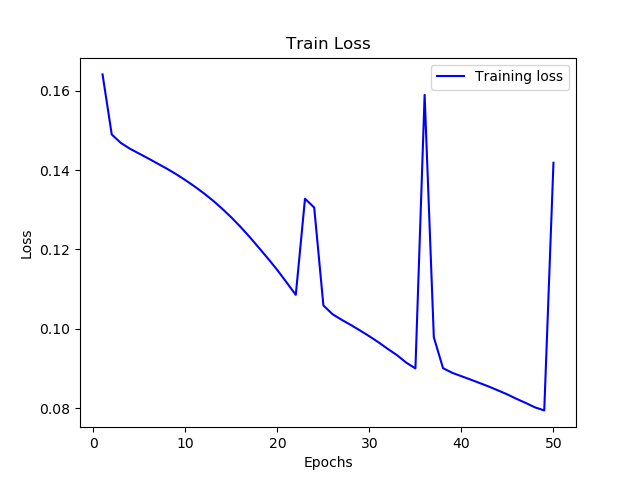
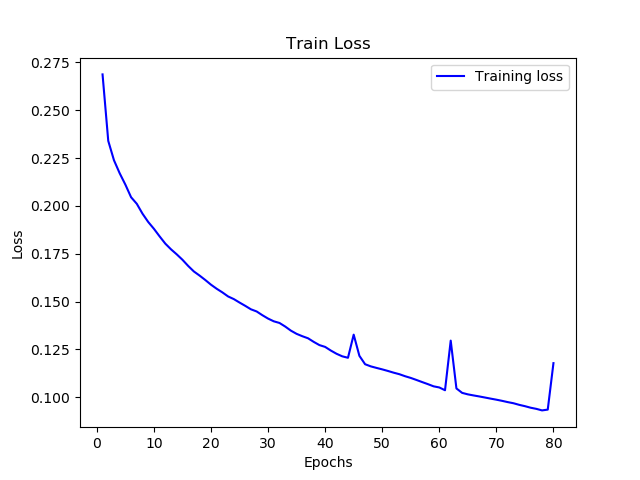
2/11

diff --git a/src/model.py b/src/model.py
@@ -5,7 +5,7 @@ import keras
 import tensorflow as tf
 import keras.backend as K
 from keras import layers
-from keras.models import Model
+from keras.models import Model,Sequential
 from keras.regularizers import l2
 from keras.layers.merge import concatenate
 from keras.layers import Activation, Conv1D, Conv2D, Input, Lambda,Dropout,LSTM
@@ -24,11 +24,11 @@ def trans(x):
 
 
 def conNet(input_shape,weight_decay,pool):
-    # ===============================================
-    # train: 0 ~ 30  0.001
-    #        35 ~ 85  0.0001
-    #        90 ~ 115  0.00006(2)
-    # ===============================================
+    '''
+    train: 0 ~ 30  0.001
+           35 ~ 85  0.0001
+           90 ~ 115  0.00006(2)
+    '''
     # ===============================================
     #            input layer
     # ===============================================
@@ -72,35 +72,19 @@ def conNet(input_shape,weight_decay,pool):
                 kernel_regularizer=l2(weight_decay),
                 padding='same',
                 name='conv3_1')(x2)
-    x3 = Conv2D(124, (3, 3),
+    x3 = Conv2D(128, (3, 3),
                 kernel_initializer='orthogonal',
                 use_bias=False, trainable=True,
                 kernel_regularizer=l2(weight_decay),
                 padding='same',
                 strides=(2, 1),
-                name='conv3_2')(x3)
+                name='conv3_3')(x3)
     x3 = BatchNormalization(axis=3, epsilon=1e-5, momentum=1, name='bn3', trainable=True)(x3, training=False)
     x3 = Activation('relu', name='relu3')(x3)
     if pool == "max":
         x3 = MaxPooling2D((2,2), strides=(2,2), padding="same", name="mpool3")(x3)
     elif pool == "avg":
         x3 = AveragePooling2D((2,2), strides=(2,2), padding="same", name="avgpool3")(x3)
-    # ===============================================
-    #            Convolution Block 4
-    # ===============================================
-    # x4 = Conv2D(128, (1,3),
-    #             kernel_initializer='orthogonal',
-    #             use_bias=False, trainable=True,
-    #             kernel_regularizer=l2(weight_decay),
-    #             padding='same',
-    #             strides=(1,2),
-    #             name='conv4')(x3)
-    # x4 = BatchNormalization(axis=3, epsilon=1e-5, momentum=1, name='bn4', trainable=True)(x4, training=False)
-    # x4 = Activation('relu', name='relu4')(x4)
-    # if pool == "max":
-    #     x4 = MaxPooling2D((1,2), strides=(1,2), padding="same", name="mpool4")(x4)
-    # elif pool == "avg":
-    #     x4 = AveragePooling2D((1, 2), strides=(1, 2), padding="same", name="avgpool4")(x4)
     # ===============================================
     #            GlobalAveragePooling
     # ===============================================
@@ -138,7 +122,7 @@ def conNet(input_shape,weight_decay,pool):
 '''
 
 
-def test():
+def test_for_cnn():
     input_shape = (13,300,3)
     model = conNet(input_shape,c.WEIGHT_DECAY,c.POOL)
 
@@ -152,4 +136,4 @@ def test():
 
 
 if __name__ == '__main__':
-    test()
+    test_for_cnn()

diff --git a/src/iden_train.py b/src/iden_train.py
@@ -22,11 +22,12 @@ def train_vggvox_model(model_load_path, model_save_path,continue_training, save_
         print("lat LR: ",K.get_value(model.optimizer.lr))
     else:
         model = conNet(c.INPUT_SHAPE,c.WEIGHT_DECAY,c.POOL)
+
         # 编译模型
         model.compile(optimizer=optimizers.Adam(lr=c.LR,beta_1=0.9, beta_2=0.999, epsilon=1e-08, decay=0.0),
                       loss="categorical_crossentropy",  # 使用分类交叉熵作为损失函数
                       metrics=['acc'])  # 使用精度作为指标
-    callbacks = [keras.callbacks.ModelCheckpoint(os.path.join(c.IDEN_MODEL_FA_PATH,'iden_model_64_{epoch:02d}_{loss:.3f}_{acc:.3f}_conNet_add30.h5'),
+    callbacks = [keras.callbacks.ModelCheckpoint(os.path.join(c.IDEN_MODEL_FA_PATH,'iden_model_64_{epoch:02d}_{loss:.3f}_{acc:.3f}_conNet.h5'),
                                                  monitor='loss',
                                                  mode='min',
                                                  save_best_only=True,

diff --git a/src/tools.py b/src/tools.py
@@ -103,18 +103,11 @@ def get_mfcc(filepath):
     # d_mfcc_feat_2 = delta(d_mfcc_feat_1, 2)
 
     features = mfcc_feat # np.stack((mfcc_feat,d_mfcc_feat_1),axis=2)
-
-    length = features.shape[0]
-    reserve_length = length - (length%100)
-    rstart = int((length - reserve_length) / 2)
-
-    if c.MODE == "train":
-        features = features[0:300, :]
-    elif c.MODE == "test":
-        features = features[0:reserve_length, :]
+    features = features[0:300, :]
     features_norm = normalize_frames(features.T)
+    features = features_norm.T
 
-    return features_norm
+    return features
 
 
 def get_mfcc_1(filepath):

diff --git a/src/constants.py b/src/constants.py
@@ -31,10 +31,10 @@ model compile setting
 '''
 
 
-CONTINUE_TRAINING = 1
+CONTINUE_TRAINING = 0
 SAVE = 1
-LR = 0.0002
-EPOCHS = 50
+LR = 0.001
+EPOCHS = 30
 BATCH_SIZE = 32
 N_CLASS = 64
 
@@ -43,7 +43,7 @@ Identification
 '''
 
 
-MODE = "test"  # train or test
+MODE = "train"  # train or test
 
 
 
@@ -54,5 +54,5 @@ IDEN_MODEL_PATH = "F:/models/iden/iden_model_test.h5" # iden_model_test.h5
 
 # test
 IDEN_TEST_FILE = "a_iden/test_tmp.txt"
-IDEN_MODEL_LOAD_PATH = "F:/models/iden/m_128/iden_model_64_45_0.083_1.000_conNet_add30.h5"
+IDEN_MODEL_LOAD_PATH = "F:/models/iden/m_128/iden_model_64_60_0.105_1.000_conNet_add30.h5"
 
